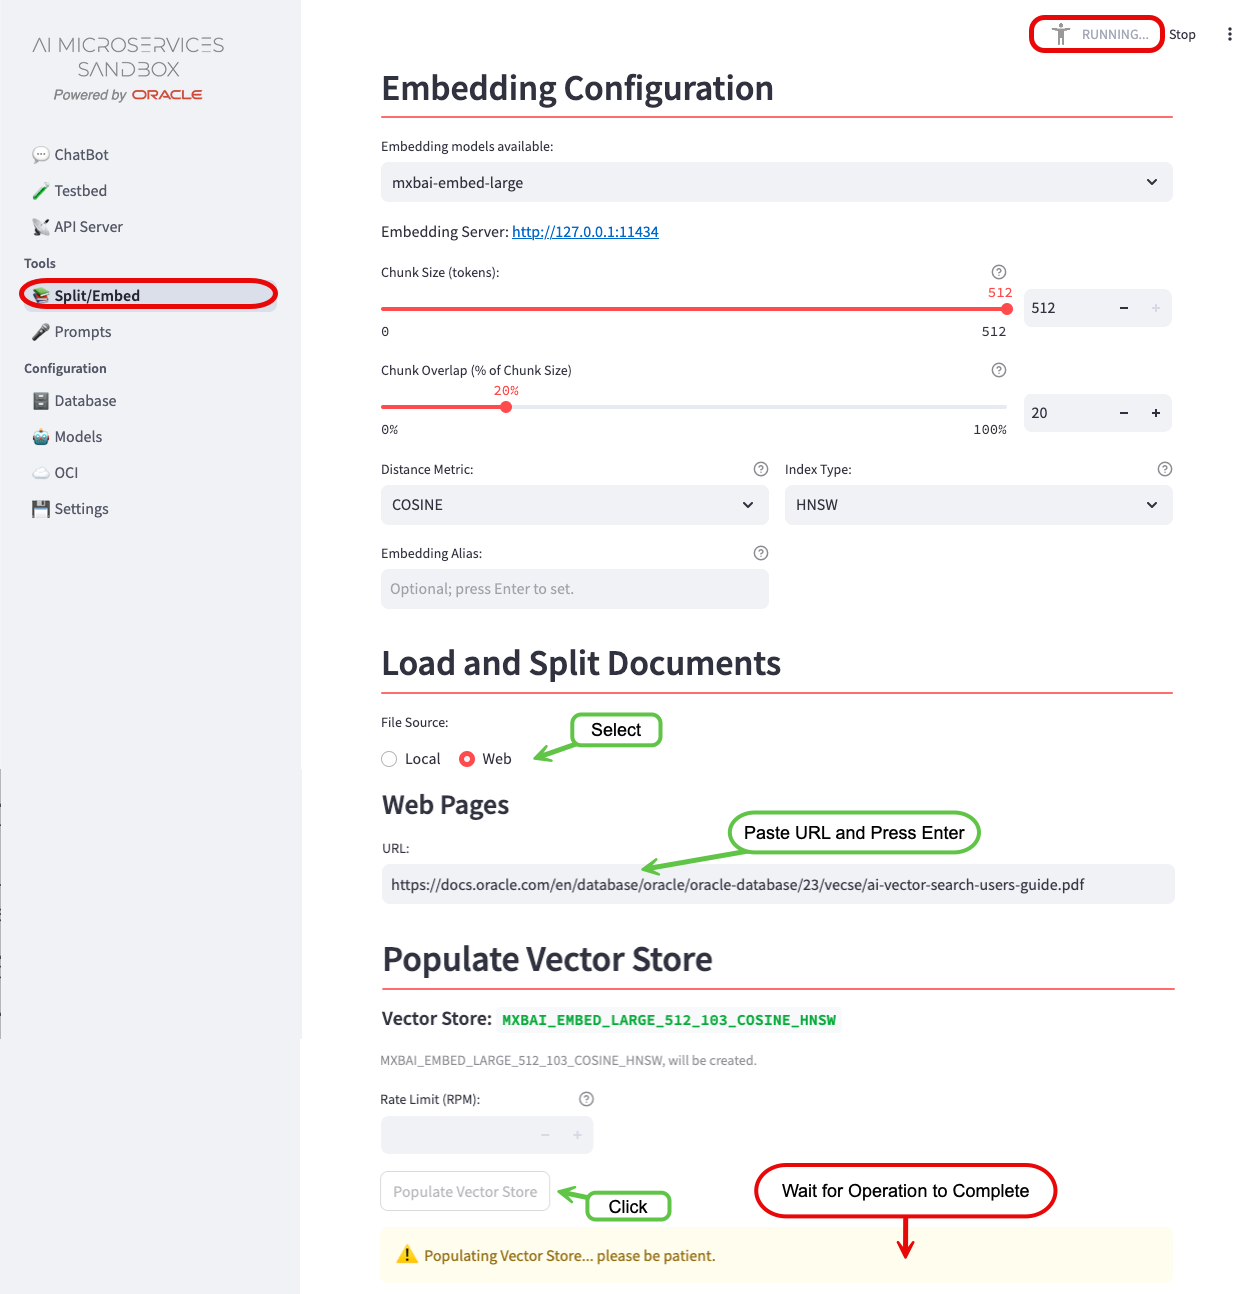
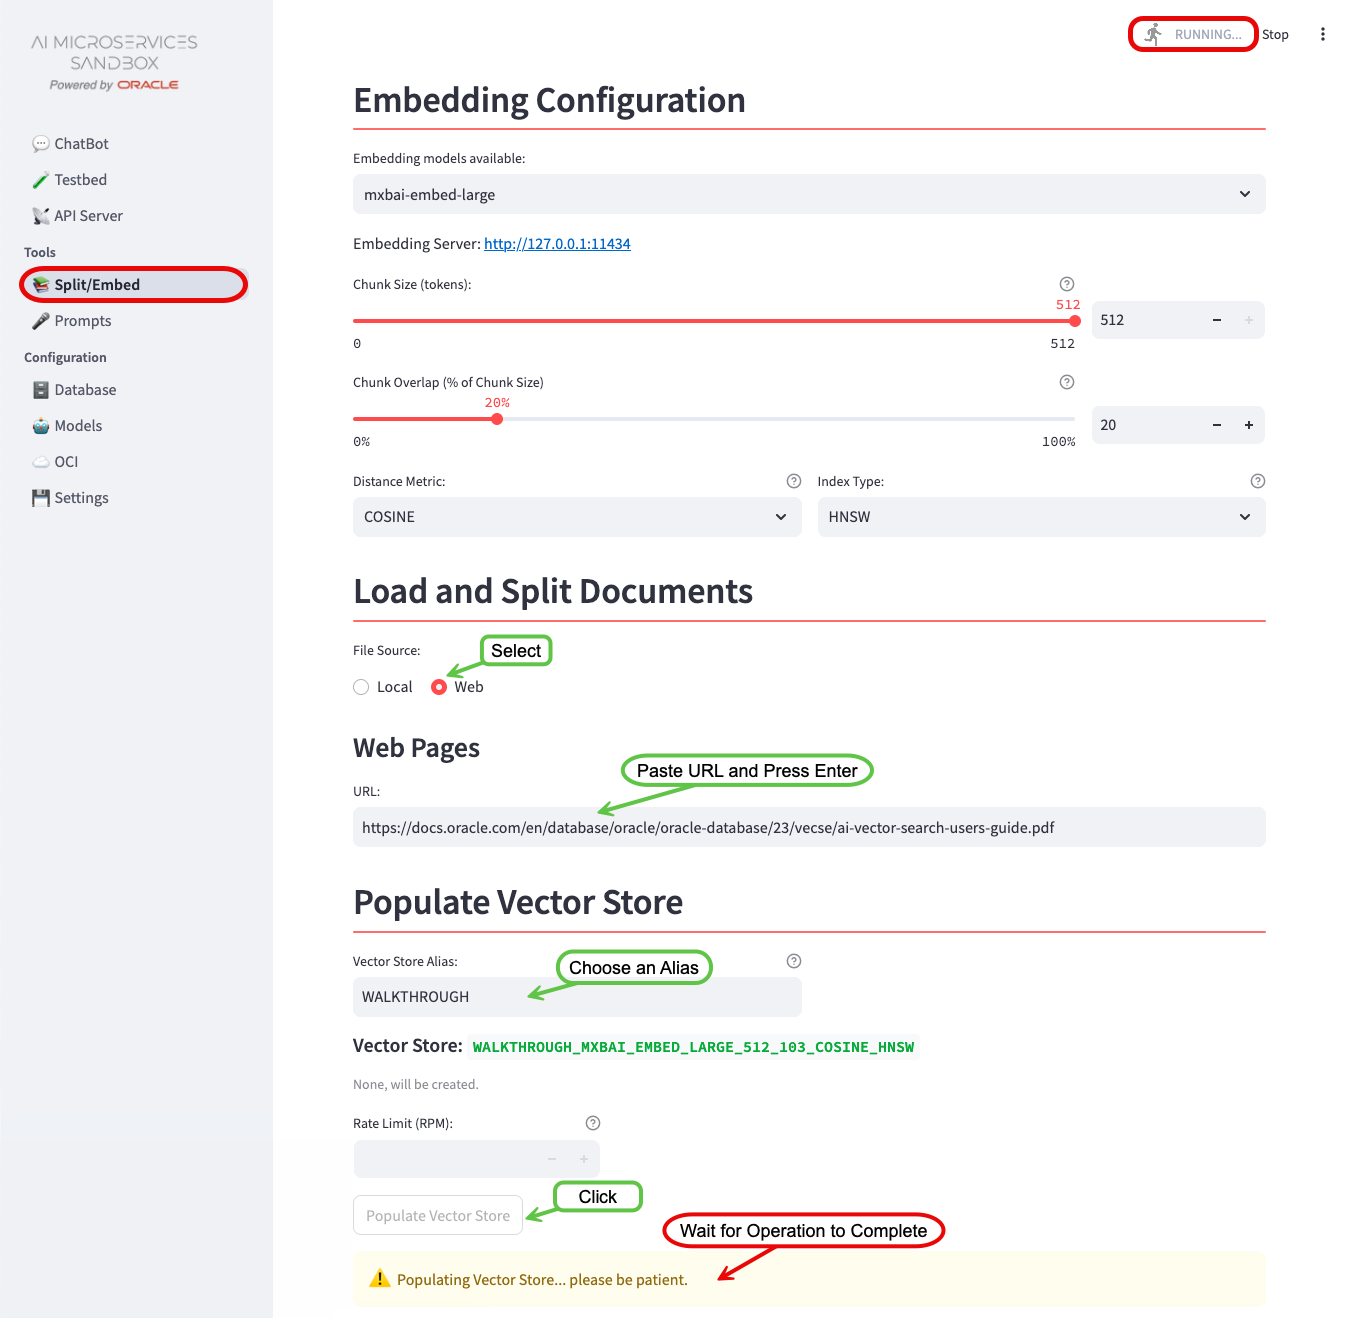
Walkthrough Done

diff --git a/src/server/bootstrap/model_def.py b/src/server/bootstrap/model_def.py
@@ -5,7 +5,7 @@ Licensed under the Universal Permissive License v1.0 as shown at http://oss.orac
 NOTE: Provide only one example per API to populate supported API lists; additional models should be
 added via the APIs
 """
-# spell-checker:ignore ollama, minilm, pplx, thenlper, mxbai, nomic, genai
+# spell-checker:ignore ollama, minilm, pplx, thenlper, mxbai, nomic, genai, docos
 
 import os
 from common.schema import Model
@@ -54,19 +54,6 @@ def main() -> list[Model]:
             "frequency_penalty": 1.0,
         },
         {
-            "name": "llama3.1",
-            "enabled": os.getenv("ON_PREM_OLLAMA_URL") is not None,
-            "type": "ll",
-            "api": "ChatOllama",
-            "api_key": "",
-            "openai_compat": True,
-            "url": os.environ.get("ON_PREM_OLLAMA_URL", default="http://127.0.0.1:11434"),
-            "context_length": 131072,
-            "temperature": 1.0,
-            "max_completion_tokens": 2048,
-            "frequency_penalty": 0.0,
-        },
-        {
             "name": "phi-4",
             "enabled": False,
             "type": "ll",
@@ -92,6 +79,20 @@ def main() -> list[Model]:
             "context_length": 131072,
             "temperature": 0.3,
             "max_completion_tokens": 4000,
+            "frequency_penalty": 0.0,
+        },
+        {
+            # This is intentionally last to line up with docos
+            "name": "llama3.1",
+            "enabled": os.getenv("ON_PREM_OLLAMA_URL") is not None,
+            "type": "ll",
+            "api": "ChatOllama",
+            "api_key": "",
+            "openai_compat": True,
+            "url": os.environ.get("ON_PREM_OLLAMA_URL", default="http://127.0.0.1:11434"),
+            "context_length": 131072,
+            "temperature": 1.0,
+            "max_completion_tokens": 2048,
             "frequency_penalty": 0.0,
         },
         {
@@ -125,16 +126,6 @@ def main() -> list[Model]:
             "max_chunk_size": 512,
         },
         {
-            "name": "mxbai-embed-large",
-            "enabled": os.getenv("ON_PREM_OLLAMA_URL") is not None,
-            "type": "embed",
-            "api": "OllamaEmbeddings",
-            "url": os.environ.get("ON_PREM_OLLAMA_URL", default="http://127.0.0.1:11434"),
-            "api_key": "",
-            "openai_compat": True,
-            "max_chunk_size": 512,
-        },
-        {
             # OCI GenAI; url and enabled will be determined by OCI config
             "name": "cohere.embed-multilingual-v3.0",
             "enabled": os.getenv("OCI_GENAI_COMPARTMENT_ID") is not None
@@ -155,6 +146,17 @@ def main() -> list[Model]:
             "api_key": "",
             "openai_compat": True,
             "max_chunk_size": 8192,
+        },
+        {
+            # This is intentionally last to line up with docos
+            "name": "mxbai-embed-large",
+            "enabled": os.getenv("ON_PREM_OLLAMA_URL") is not None,
+            "type": "embed",
+            "api": "OllamaEmbeddings",
+            "url": os.environ.get("ON_PREM_OLLAMA_URL", default="http://127.0.0.1:11434"),
+            "api_key": "",
+            "openai_compat": True,
+            "max_chunk_size": 512,
         },
     ]
 

diff --git a/docs/content/walkthrough/_index.md b/docs/content/walkthrough/_index.md
@@ -26,6 +26,7 @@ What you'll need for the walkthrough:
 - Internet Access (docker.io and container-registry.oracle.com)
 - Access to an environment where you can run container images (Podman or Docker).
 - 100G of free disk space.
+- 12G of usable memory.
 - Sufficient GPU/CPU resources to run the **LLM**, embedding model, and database (see below).
 
 {{% notice style="code" title="Performance: A Word of Caution" icon="fire" %}}
@@ -57,33 +58,31 @@ To enable the _ChatBot_ functionality, access to a **LLM** is required. The walk
 
 1. Start the *Ollama* container:
 
-   {{< tabs "uniqueid" >}}
+   {{< tabs "llm" >}}
    {{% tab title="Linux/MacOS (x86)" %}}
+   The Container Runtime is native:
+
    ```bash
    podman run -d --gpus=all -v ollama:$HOME/.ollama -p 11434:11434 --name ollama docker.io/ollama/ollama
    ```
    {{% /tab %}}
    {{% tab title="MacOS (Silicon)" %}}
-   The Container Runtime is backed by a virtual machine.  The VM should be started with **10G memory** and **100G disk space** allocated.
+   The Container Runtime is backed by a virtual machine.  The VM should be started with **12G memory** and **100G disk space** allocated.
 
-   AI Runners like Ollama won’t utilize the "Metal" GPU when running in a container. This may change as the landscape evolves.
+   AI Runners like Ollama, LM Studio, etc. won’t utilize Apple Silicon's "Metal" GPU when running in a container. This may change as the landscape evolves.
 
    ```bash
    podman run -d -e OLLAMA_NUM_PARALLEL=1 -v ollama:$HOME/.ollama -p 11434:11434 --name ollama docker.io/ollama/ollama
    ```
    {{% /tab %}}
    {{% tab title="Windows" %}}
-   The Container Runtime is backed by a virtual machine.  The VM should be started with **10G memory** and **100G disk space** allocated.
+   The Container Runtime is backed by a virtual machine.  The VM should be started with **12G memory** and **100G disk space** allocated.
 
    ```bash
    podman run -d --gpus=all -v ollama:$HOME/.ollama -p 11434:11434 --name ollama docker.io/ollama/ollama
    ```
    {{% /tab %}}
    {{< /tabs >}}
-
-
-
-
 
 1. Pull the **LLM** into the container:
 
@@ -171,28 +170,39 @@ The **Sandbox** provides an easy to use front-end for experimenting with **LLM**
    ```bash
    cd oaim-sandbox/src
    podman build -t localhost/oaim-sandbox-aio:latest .
-
    ```
 
 1. Start the **Sandbox**:
 
    ```bash
-   podman run -d --name oaim-sandbox-aio --net="host" localhost/oaim-sandbox-aio:latest
+   podman run -d --name oaim-sandbox-aio --network=host localhost/oaim-sandbox-aio:latest
    ```
 
-If you are running the **Sandbox** on a remote host, you may need to allow access to the `8501` port.
+   Operating System specific instructions:
+   {{< tabs "sandbox" >}}
+   {{% tab title="Linux" %}}
+   If you are running the **Sandbox** on a remote host, you may need to allow access to the `8501` port.
 
-For example, in Oracle Linux 8/9 with `firewalld`:
+   For example, in Oracle Linux 8/9 with `firewalld`:
 
-```bash
-firewall-cmd --zone=public --add-port=8501/tcp
-```
+   ```bash
+   firewall-cmd --zone=public --add-port=8501/tcp
+   ```
+   {{% /tab %}}
+   {{% tab title="MacOS/Windows" %}}
+   As the container is running in a VM, a port-forward is required from the localhost to the Podman VM:
+   ```bash
+   podman machine ssh -- -N -L 8501:localhost:8501
+   ```
+   {{% /tab %}}
+   {{% /tabs %}}
+
 
 ## Configuration
 
 With the "Infrastructure" in-place, you're ready to configure the **Sandbox**. 
 
-In a web browser, navigate to your host's `8501` port:
+In a web browser, navigate to `http://localhost:8501`:
 ![Sandbox](images/chatbot_no_models.png)
 
 Notice that there are no language models configured to use. Let's start the configuration.
@@ -205,7 +215,7 @@ To configure the On-Premises **LLM**, navigate to the _Configuration -> Models_ 
 ![Configure LLM](images/models_edit.png)
 1. Tick the _Enabled_ checkbox, leave all other settings as-is, and _Save_
 ![Enable LLM](images/models_enable_llm.png)
-{{% icon star %}} More information about configuring **LLM**s in the **Sandbox** can be found in the [Model Configuration](../configuration/model_config) documentation.
+{{% icon star %}} More information about configuring **LLM**s in the **Sandbox** can be found in the [Model Configuration](../sandbox/configuration/model_config) documentation.
 
 #### Say "Hello?"
 
@@ -217,8 +227,7 @@ The error about language models will have disappeared, but there are new warning
 
 The `Chat model:` will have been pre-set to the only enabled **LLM** (_llama3.1_) and a dialog box to interact with the **LLM** will be ready for input.
 
-Feel free to play around with the different **LLM** Parameters, hovering over the {{< q_icon >}}
-icons to get more information on what they do.
+Feel free to play around with the different **LLM** Parameters, hovering over the {{% icon circle-question %}} icons to get more information on what they do.
 
 You'll come back to the _ChatBot_ later to experiment further.
 
@@ -229,7 +238,7 @@ To configure the On-Premises Embedding Model, navigate back to the _Configuratio
 1. Enable the `mxbai-embed-large` Embedding Model following the same process as you did for the Language Model.
 ![Configure Embedding Model](images/models_enable_embed.png)
 
-{{% icon star %}}  More information about configuring embedding models in the **Sandbox** can be found in the [Model Configuration](../configuration/model_config) documentation.
+{{% icon star %}}  More information about configuring embedding models in the **Sandbox** can be found in the [Model Configuration](../sandbox/configuration/model_config) documentation.
 
 ### Configure the Database
 
@@ -242,7 +251,7 @@ To configure Oracle Database 23ai Free, navigate to the _Configuration -> Databa
 
 ![Configure Database](../sandbox/configuration/images/database_config.png)
 
-{{% icon star %}} More information about configuring the database in the **Sandbox** can be found in the [Database Configuration](../configuration/db_config) documentation.
+{{% icon star %}} More information about configuring the database in the **Sandbox** can be found in the [Database Configuration](../sandbox/configuration/db_config) documentation.
 
 ## Split and Embed
 
@@ -256,6 +265,7 @@ Navigate to the _Split/Embed_ Screen:
    https://docs.oracle.com/en/database/oracle/oracle-database/23/vecse/ai-vector-search-users-guide.pdf
    ```
 1. Press Enter
+1. Give the Vector Store an Alias: `WALKTHROUGH`
 1. Click _Load, Split, and Populate Vector Store_
 1. Please be patient...
 
@@ -286,14 +296,14 @@ From the command line:
 1. Query the Vector Store:
 
    ```sql
-   select * from WALKTHROUGH.MXBAI_EMBED_LARGE_512_103_COSINE_HNSW;
+   select * from WALKTHROUGH.WALKTHROUGH_MXBAI_EMBED_LARGE_512_103_COSINE_HNSW;
    ```
 
 ## Experiment
 
 With the **Oracle AI Microservices Sandbox** configured, you're ready for some experimentation.
 
-Navigate back to the _ChatBot_. There will be no more configuration warnings and `RAG?` will be automatically enabled:
+Navigate back to the _ChatBot_. There will be no more configuration warnings.
 
 For this guided experiment, perform the following:
 
@@ -321,7 +331,7 @@ With **RAG** enabled, all the services (**LLM**/Embedding Models and Database) a
 Depending on your hardware, this may cause the response to be **_significantly_** delayed.
 {{% /notice %}}
 
-![Enable RAG](images/enable_rag.png)
+![Enable RAG](images/chatbot_rag_enable.png)
 
 By asking `Are you sure?`, you are taking advantage of the **Sandbox**'s history and context functionality.  
 The response should be different and include references to `DBMS_VECTOR` and links to the embedded documentation where this information can be found. It might even include an apology!

diff --git a/docs/content/sandbox/configuration/db_config.md b/docs/content/sandbox/configuration/db_config.md
@@ -6,6 +6,8 @@ weight = 20
 <!--
 Copyright (c) 2024-2025, Oracle and/or its affiliates.
 Licensed under the Universal Permissive License v1.0 as shown at http://oss.oracle.com/licenses/upl.
+
+spell-checker: ignore tablespace mycomplexsecret mycomplexwalletsecret sandboxdb oaim
 -->
 
 To use the Retrieval-Augmented Generation (RAG) functionality of the Sandbox, you will need to setup/enable an [embedding model](../model_config) and have access to an **Oracle Database 23ai**. Both the [Always Free Oracle Autonomous Database Serverless (ADB-S)](https://docs.oracle.com/en/cloud/paas/autonomous-database/serverless/adbsb/autonomous-always-free.html) and the [Oracle Database 23ai Free](https://www.oracle.com/uk/database/free/get-started/) are supported. They are a great, no-cost, way to get up and running quickly.
@@ -24,7 +26,15 @@ Provide the following input:
 
 - **DB Username**: The pre-created [database username](#database-user) where the embeddings will be stored
 - **DB Password**: The password for the **DB Username**
-- **Database Connect String**: The full connection string or [TNS Alias](#using-a-wallettns_admin-directory) for the Database. This is normally in the form of `(DESCRIPTION=(ADDRESS=(PROTOCOL=tcp)(HOST=<hostname>)(PORT=<port>))(CONNECT_DATA=(SERVICE_NAME=<service_name>)))` or `//<hostname>:<port>/<service_name>`.
+- **Database Connect String**: The full connection string or [TNS Alias](#using-a-wallettns_admin-directory) for the Database. 
+    This is normally in the form of 
+    `
+    (DESCRIPTION=(ADDRESS=(PROTOCOL=tcp)(HOST=<hostname>)(PORT=<port>))(CONNECT_DATA=(SERVICE_NAME=<service_name>)))
+    ` 
+    or 
+    `
+    //<hostname>:<port>/<service_name>
+    `
 - **Wallet Password** (_Optional_): If the connection to the database uses mTLS, provide the wallet password. {{< icon "star" >}}Review [Using a Wallet](#using-a-wallettns_admin-directory) for additional setup instructions.
 
 Once all fields are set, click the `Save` button.
